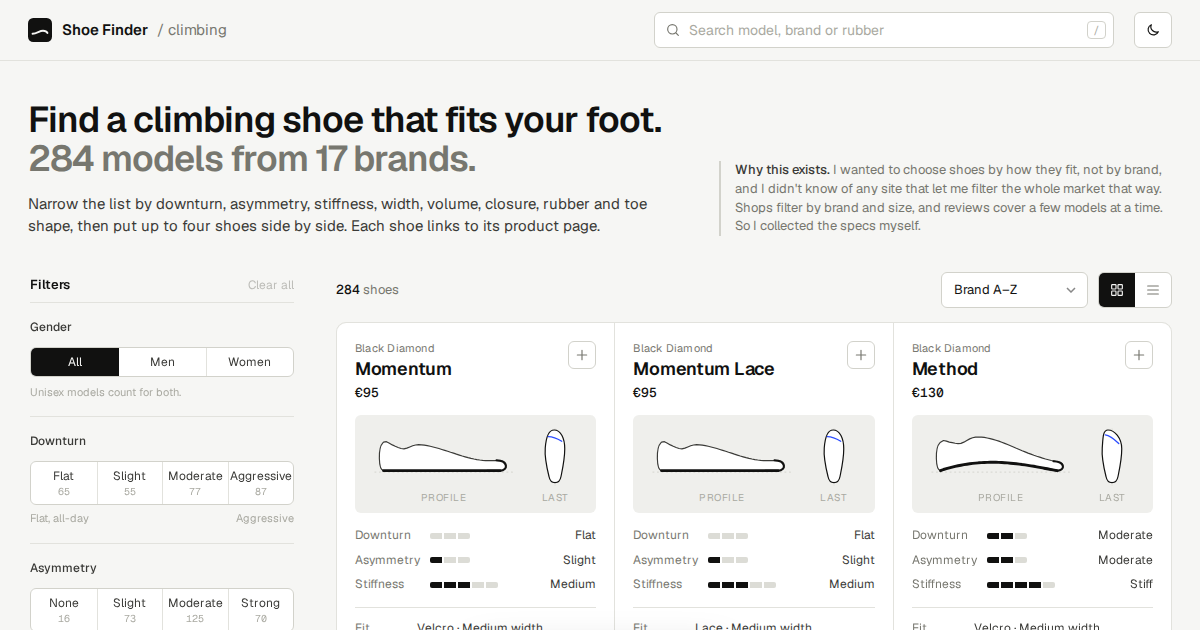
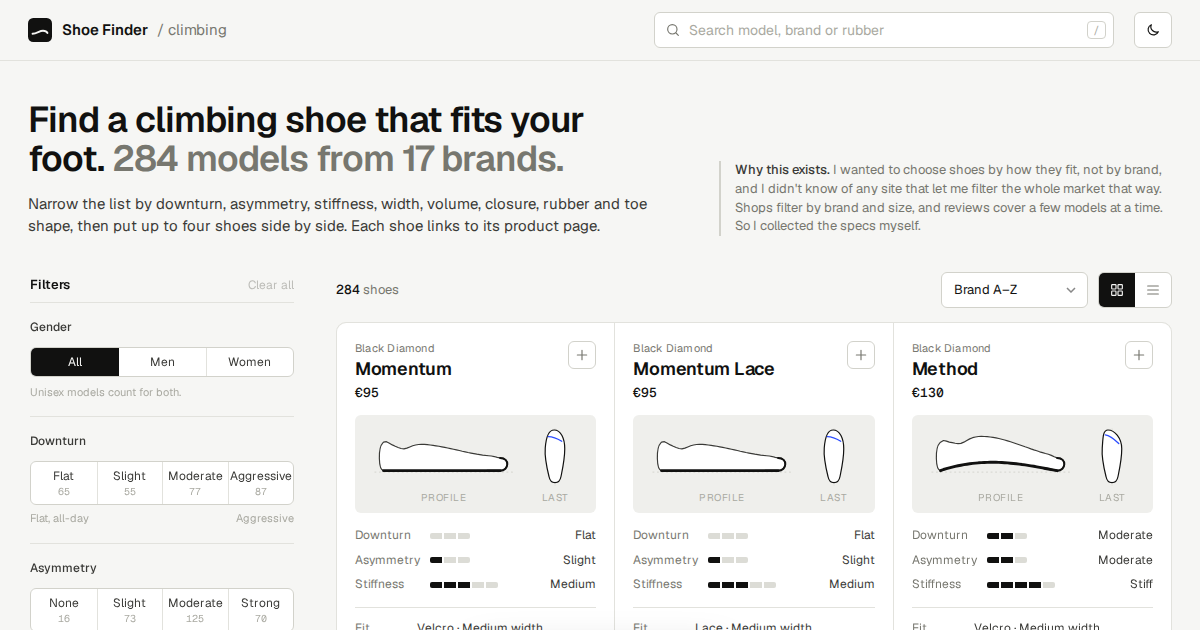
fix: taller toe box in shoe profile

diff --git a/index.html b/index.html
@@ -481,7 +481,7 @@ function profileSVG(s){
   // heel counter at the back, a dip at the ankle collar, then the instep tapering into the toe box
   const bump = (c, w) => x => Math.exp(-((x - c) ** 2) / w);
   const heelTab = bump(0.02, 0.0015), collar = bump(0.17, 0.006);
-  const thick = x => 11 + 18 * (1 - ss(0.26, 0.9, x)) + 3 * heelTab(x) - 5 * collar(x) - (d >= 2 ? 1.2 * ss(0.8, 1, x) : 0);
+  const thick = x => 16 + 13 * (1 - ss(0.3, 0.97, x)) + 3 * heelTab(x) - 5 * collar(x) - 2 * ss(0.9, 1, x) ** 2;
   const f = n => n.toFixed(1);
   const sole = [], upper = [];
   for (let i = 0; i <= N; i++){
@@ -492,10 +492,10 @@ function profileSVG(s){
   const line = pts => pts.map(p => f(p[0]) + " " + f(p[1])).join(" L");
   const [ux, uy] = upper[N], [sx, sy] = sole[N], [hx, hy] = upper[0];
   const hook = d >= 3 ? 4 : 0; // point the toe cap down on the most aggressive shoes
-  const cap = `C${f(ux + 9)} ${f(uy + hook)} ${f(sx + 9 - hook)} ${f(sy + hook)} ${f(sx)} ${f(sy)}`;
+  const cap = `C${f(ux + 11)} ${f(uy + hook)} ${f(sx + 10 - hook)} ${f(sy + hook)} ${f(sx)} ${f(sy)}`;
   const heel = `C${X0 - 6} ${G - 1} ${X0 - 6} ${f(hy + 6)} ${f(hx - 1)} ${f(hy + 1)} L${f(hx)} ${f(hy)}`;
   const outline = `M${line(upper)} ${cap} L${line([...sole].reverse())} ${heel} Z`;
-  const toeCap = `M${f(sx - 14)} ${f(sole[N - 4][1])} L${line(sole.slice(N - 4))} C${f(sx + 9 - hook)} ${f(sy + hook)} ${f(ux + 9)} ${f(uy + hook)} ${f(ux - 4)} ${f(uy - 0.5)}`;
+  const toeCap = `M${f(sx - 14)} ${f(sole[N - 4][1])} L${line(sole.slice(N - 4))} C${f(sx + 10 - hook)} ${f(sy + hook)} ${f(ux + 11)} ${f(uy + hook)} ${f(ux)} ${f(uy)}`;
   return `<svg viewBox="0 0 164 58" aria-hidden="true">
     <line x1="6" y1="${G + 1.6}" x2="160" y2="${G + 1.6}" stroke="var(--line-2)" stroke-width="1" stroke-dasharray="2 3"/>
     <path d="${outline}" fill="var(--panel)" stroke="var(--ink-2)" stroke-width="1.3" stroke-linejoin="round"/>
